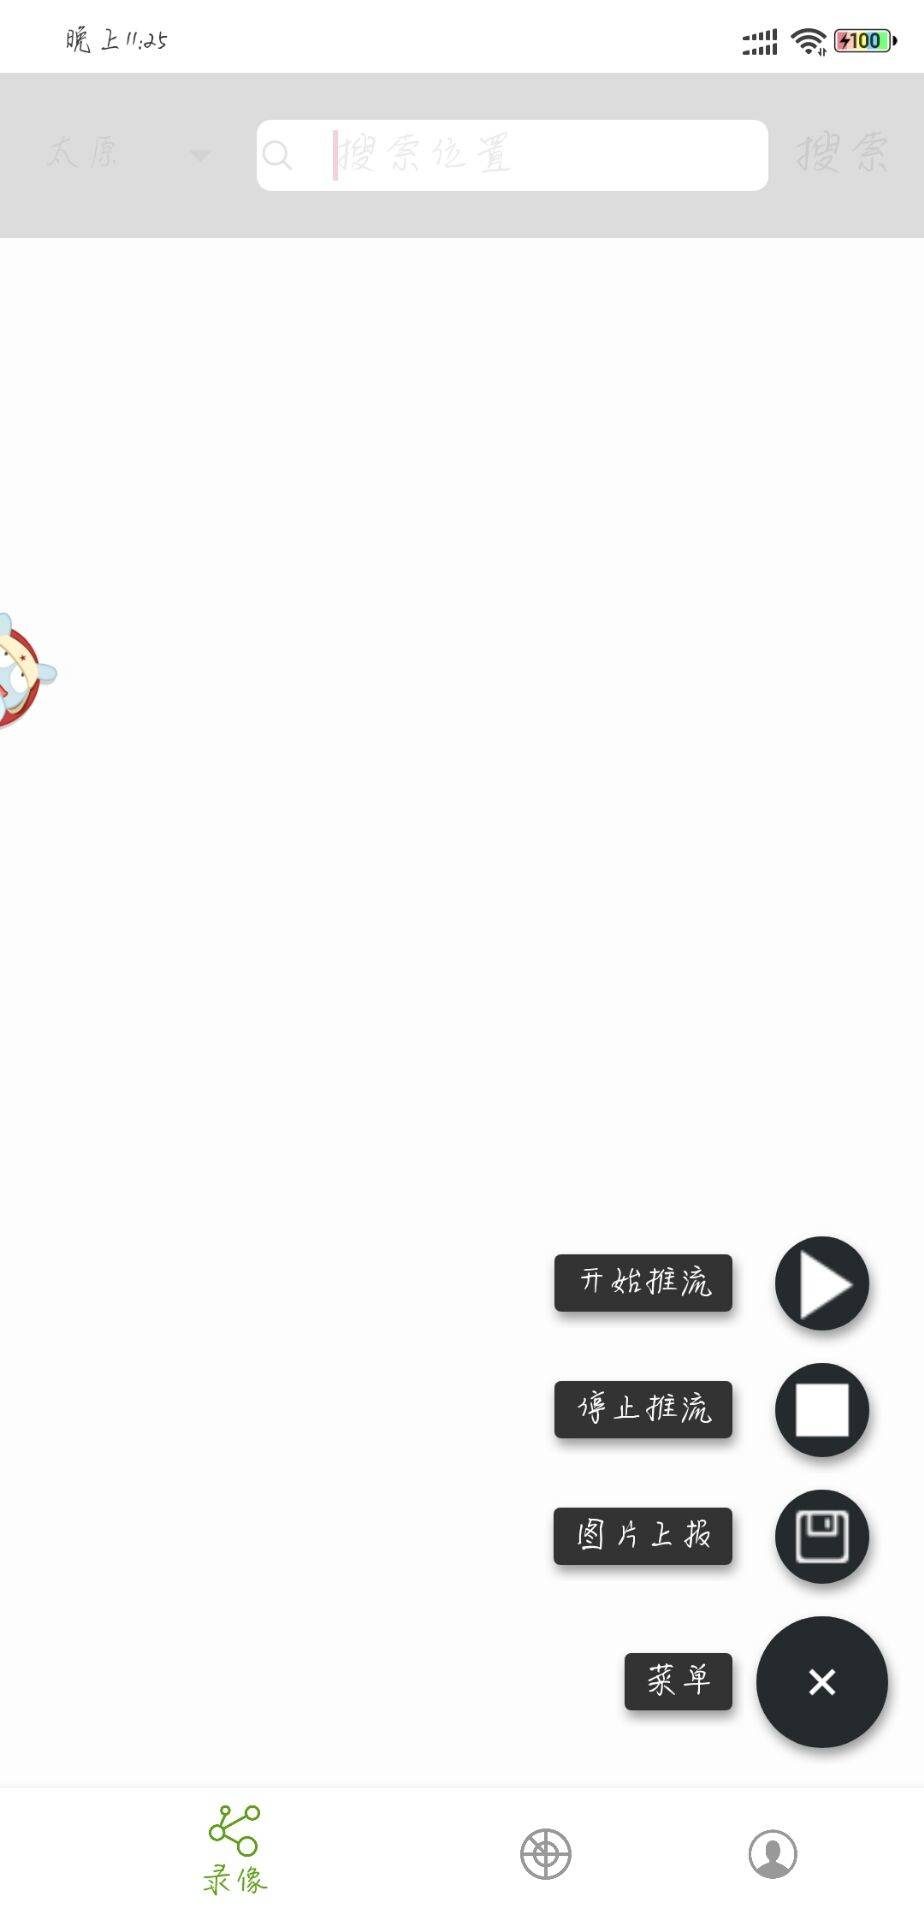
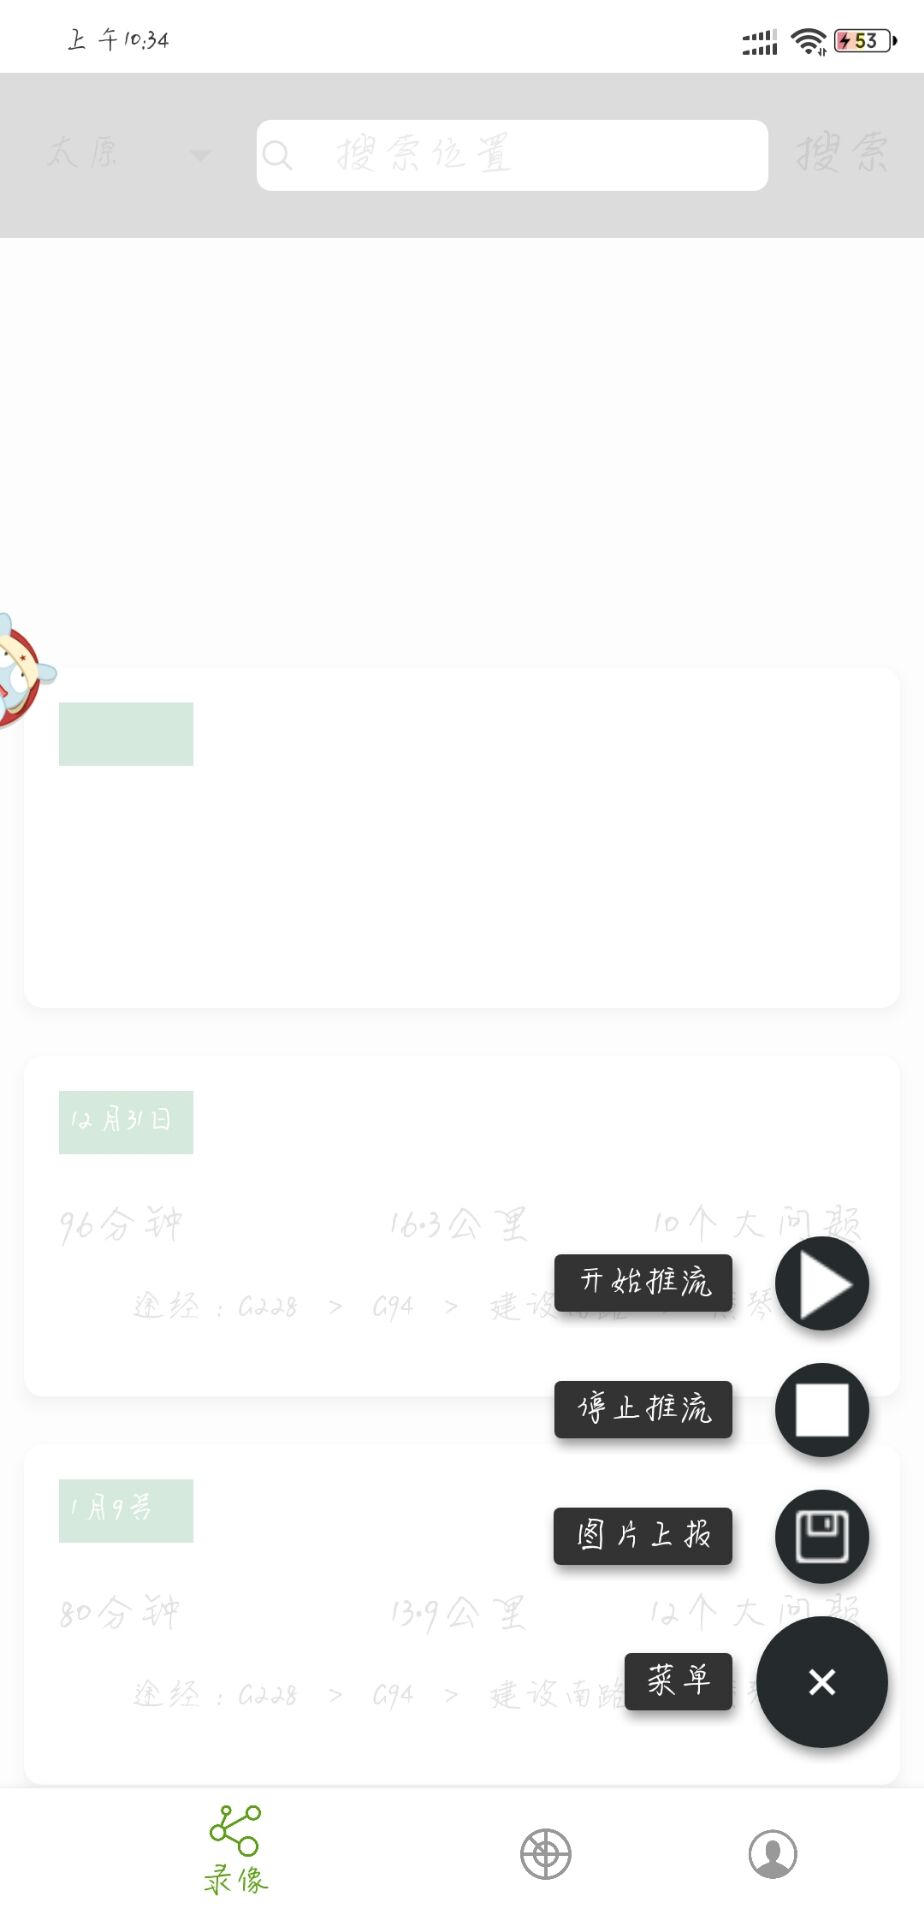
:pencil2: update

diff --git a/app/src/main/java/com/example/a65667/road/fragment/CameraFragment.java b/app/src/main/java/com/example/a65667/road/fragment/CameraFragment.java
@@ -4,15 +4,28 @@ import android.support.annotation.NonNull;
 import android.support.annotation.Nullable;
 import android.support.v4.app.Fragment;
 import android.os.Bundle;
+import android.support.v7.widget.RecyclerView;
 import android.view.LayoutInflater;
 import android.view.View;
 import android.view.ViewGroup;
 
+import com.example.a65667.road.Item.MineRecordItem;
 import com.example.a65667.road.R;
+import com.example.a65667.road.binder.MineRecordItemViewBinder;
+
+import java.util.ArrayList;
+import java.util.List;
+
+import me.drakeet.multitype.Items;
+import me.drakeet.multitype.MultiTypeAdapter;
 
 public class CameraFragment extends Fragment implements View.OnClickListener {
 
     private View root;
+    private RecyclerView recyclerView;
+
+    private MultiTypeAdapter mAdapter;
+    private Items mItems;
 
     public CameraFragment(){
         // Required empty public constructor
@@ -32,7 +45,54 @@ public class CameraFragment extends Fragment implements View.OnClickListener {
     }
 
     private void initView(){
+        List<String> dataTime = new ArrayList<>();
+        List<String> lastTime = new ArrayList<>();
+        List<String> holeCount = new ArrayList<>();
+        List<String> crackCount = new ArrayList<>();
+        List<String> travelWay = new ArrayList<>();
 
+        dataTime.add("12月31日");
+        lastTime.add("96分钟");
+        holeCount.add("16.3公里");
+        crackCount.add("10个大问题");
+        travelWay.add("途经：G228  >  G94  >  建设南路  >  横琴大桥");
+
+        dataTime.add("1月9号");
+        lastTime.add("80分钟");
+        holeCount.add("13.9公里");
+        crackCount.add("12个大问题");
+        travelWay.add("途经：G228  >  G94  >  建设南路  >  横琴大桥");
+
+        dataTime.add("1月20号");
+        lastTime.add("105分钟");
+        holeCount.add("19.4公里");
+        crackCount.add("8个大问题");
+        travelWay.add("途经：G228  >  G94  >  建设南路  >  横琴大桥");
+
+        dataTime.add("2月4号");
+        lastTime.add("96分钟");
+        holeCount.add("16.3公里");
+        crackCount.add("10个大问题");
+        travelWay.add("途经：G228  >  G94  >  建设南路  >  横琴大桥");
+
+        recyclerView = root.findViewById(R.id.rv_video);
+        mAdapter = new MultiTypeAdapter();
+        mAdapter.register(MineRecordItem.class, new MineRecordItemViewBinder());
+        recyclerView.setAdapter(mAdapter);
+        mItems = new Items();
+        mItems.add(new MineRecordItem());
+        for (int i = 0; i < lastTime.size(); i++) {
+            MineRecordItem mineRecordItem = new MineRecordItem();
+            mineRecordItem.setDataTime(dataTime.get(i));
+            mineRecordItem.setLastTime(lastTime.get(i));
+            mineRecordItem.setHoleCount(holeCount.get(i));
+            mineRecordItem.setCrackCount(crackCount.get(i));
+            mineRecordItem.setTravel(travelWay.get(i));
+            mItems.add(mineRecordItem);
+        }
+
+        mAdapter.setItems(mItems);
+        mAdapter.notifyDataSetChanged();
     }
 
     @Override
